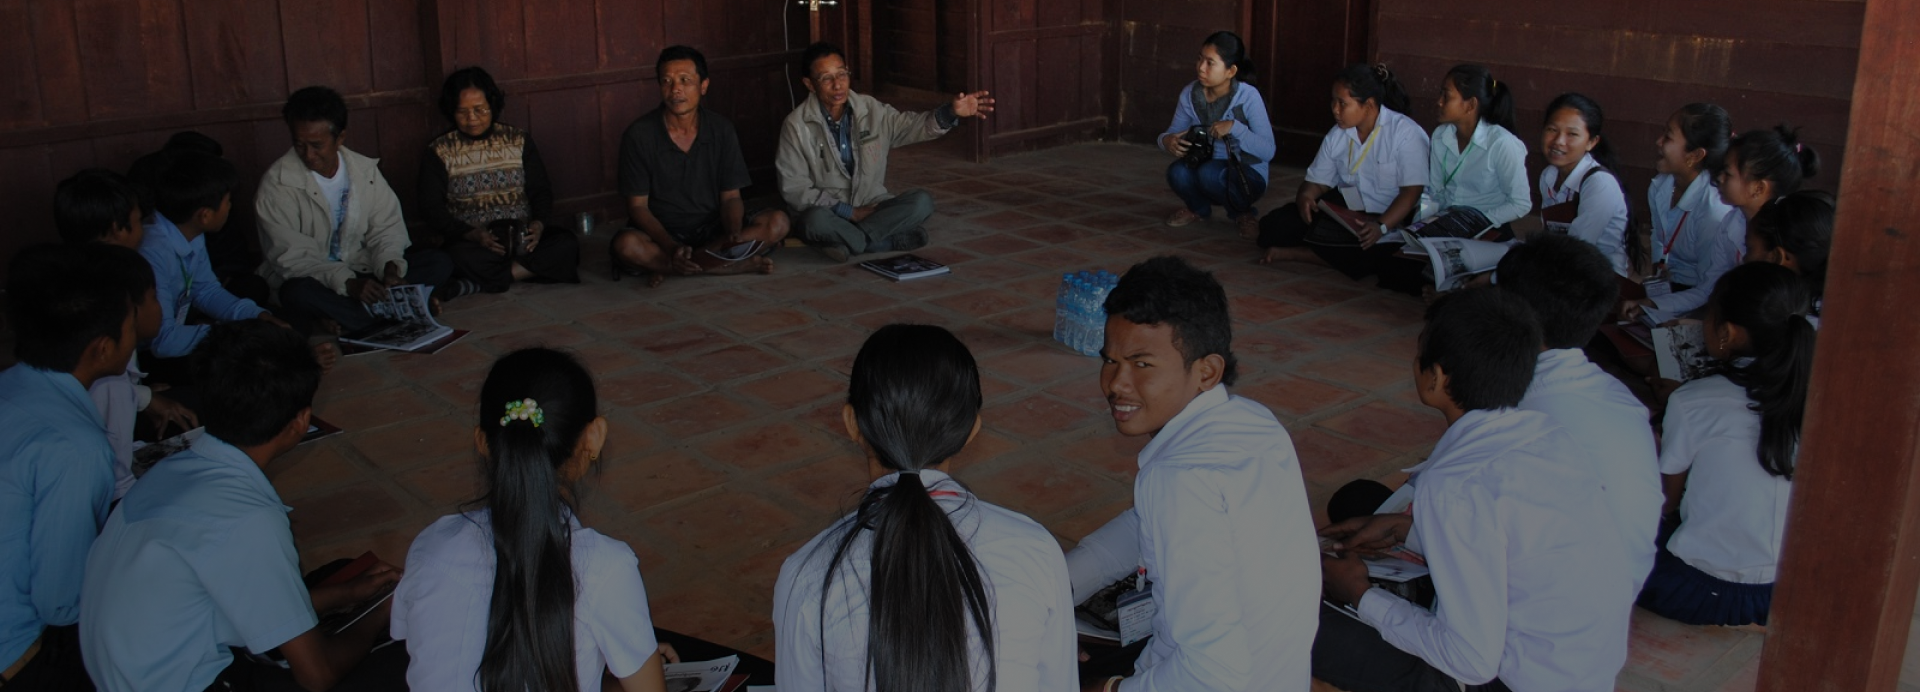
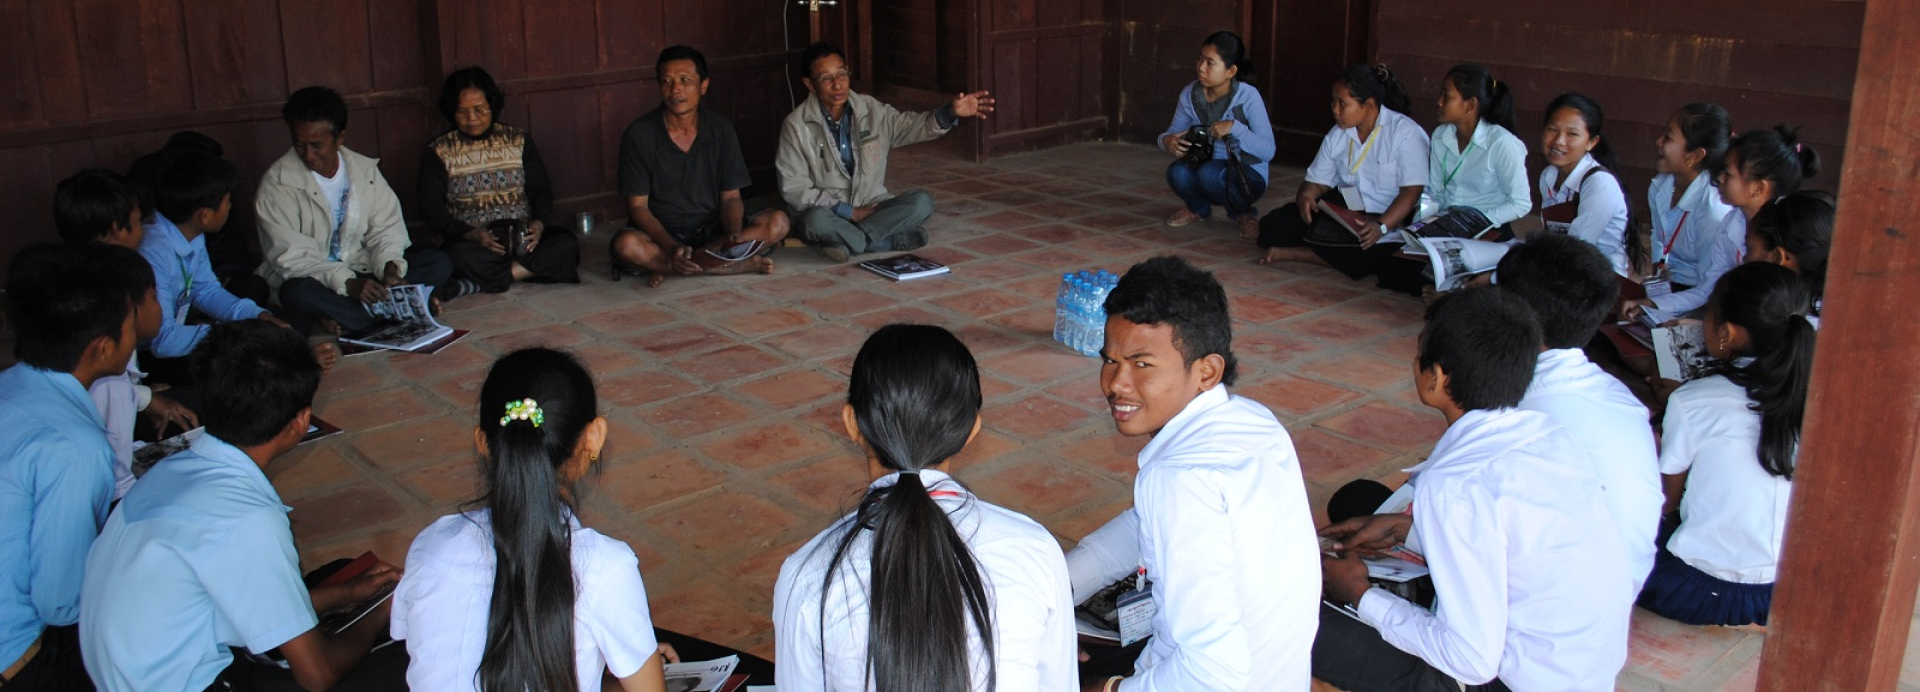
nav-bar responsive 30% done

diff --git a/index.html b/index.html
@@ -4,7 +4,8 @@
 <head>
     <meta charset="utf-8">
     <meta name="viewport" content="width=device-width, initial-scale=1">
-    <title>Bootstrap demo</title>
+    <title>Documentation Center of Cambodia</title>
+    <link rel="shortcut icon" href="./assets/images/center-of-cambodia-logo.png" type="image/x-icon">
     <link href="https://cdn.jsdelivr.net/npm/bootstrap@5.3.2/dist/css/bootstrap.min.css" rel="stylesheet"
         integrity="sha384-T3c6CoIi6uLrA9TneNEoa7RxnatzjcDSCmG1MXxSR1GAsXEV/Dwwykc2MPK8M2HN" crossorigin="anonymous">
     <link rel="stylesheet" href="./assets/css/styles.css">
@@ -27,15 +28,34 @@
                         <a style="margin-right: 12px;" class="nav-button" href="#">Sign In</a>
                         <a class="nav-button" href="#">Donate</a>
                     </div>
+                    <label id="label"><span></span></label>
                 </div>
             </div>
         </nav>
         <section class="bg-hero-section flex-grow-1 d-flex align-items-center">
             <div class="container">
-                <h1>Forum</h1>
+                <div class="w-50 text-white">
+                    <h1>Forum</h1>
+                    <h2>The Eastern Zone Documentation Center offers a variety of educational forums such as:</h2>
+                    <ul class="px-0">
+                        <li class="d-flex align-items-center"><svg xmlns="http://www.w3.org/2000/svg" width="19" height="4" viewBox="0 0 19 4" fill="none">
+                            <rect width="19" height="4" fill="#C2190E" />
+                        </svg><span style="margin-left: 5px;">Public Education Forum</span></li>
+                        <li class="d-flex align-items-center"><svg xmlns="http://www.w3.org/2000/svg" width="19" height="4" viewBox="0 0 19 4" fill="none">
+                            <rect width="19" height="4" fill="#C2190E" />
+                        </svg><span style="margin-left: 5px;">Classroom Forum for High School Students</span></li>
+                        <li class="d-flex align-items-center"><svg xmlns="http://www.w3.org/2000/svg" width="19" height="4" viewBox="0 0 19 4" fill="none">
+                            <rect width="19" height="4" fill="#C2190E" />
+                        </svg><span style="margin-left: 5px;">Introducing the slogan of rememberance of genocide</span></li>
+                        <li class="d-flex align-items-center"><svg xmlns="http://www.w3.org/2000/svg" width="19" height="4" viewBox="0 0 19 4" fill="none">
+                            <rect width="19" height="4" fill="#C2190E" />
+                        </svg><span style="margin-left: 5px;">Annual Meeting for History Teachers</span></li>
+                    </ul>
+                </div>
             </div>
         </section>
     </header>
+    <script src="./assets/js/custom.js"></script>
     <script src="https://cdn.jsdelivr.net/npm/bootstrap@5.3.2/dist/js/bootstrap.bundle.min.js"
         integrity="sha384-C6RzsynM9kWDrMNeT87bh95OGNyZPhcTNXj1NW7RuBCsyN/o0jlpcV8Qyq46cDfL"
         crossorigin="anonymous"></script>

diff --git a/assets/css/styles.css b/assets/css/styles.css
@@ -9,6 +9,10 @@
     --primary-button-color: #C2190E;
 }
 
+.menu{
+    display: none !important;
+}
+
 .menu a{
     color: var(--primary-text-color);
 }
@@ -33,8 +37,79 @@
 }
 
 .bg-hero-section{
-    background: url("../images/hero-section-image.png");
+    background: linear-gradient(180deg, rgba(0, 0, 0, 0.00) 5.73%, rgba(0, 0, 0, 0.50) 39.06%), url("../images/hero-section-image.png");
     background-repeat: no-repeat;
     background-position: center center;
     background-size: 100% 100%;
+}
+
+#label{
+    position: relative;
+    display: block;
+    width: 20px;
+    height: 20px;
+    cursor: pointer;
+}
+
+label>span{
+    display: block;
+    content: "";
+    position: relative;
+    width: 20px;
+    height: 5px;
+    background-color: var(--primary-button-color);
+    top: 0;
+    left: 0;
+    transition: all 300ms linear;
+    border-radius: 5px;
+}
+
+label>span::before{
+    display: block;
+    content: "";
+    position: absolute;
+    width: 20px;
+    height: 5px;
+    background-color: var(--primary-button-color);
+    top: -7px;
+    left: 0;
+    transition: all 300ms linear;
+    border-radius: 5px;
+}
+
+label>span::after {
+    display: block;
+    content: "";
+    position: absolute;
+    width: 20px;
+    height: 5px;
+    background-color: var(--primary-button-color);
+    top: 7px;
+    left: 0;
+    transition: all 300ms linear;
+    border-radius: 5px;
+}
+
+.active>span{
+    background-color: transparent;
+}
+
+.active>span::before{
+    top: 0;
+    transform: rotate(45deg);
+}
+
+.active>span::after {
+    top: 0;
+    transform: rotate(-45deg);
+}
+
+@media (min-width: 992px){
+    #label{
+        display: none !important;
+    }
+
+    .menu{
+        display: block !important;
+    }
 }

diff --git a/assets/js/custom.js b/assets/js/custom.js
@@ -1,0 +1,5 @@
+let label = document.querySelector("#label");
+
+label.addEventListener("click", () => {
+    label.classList.toggle("active");
+})
